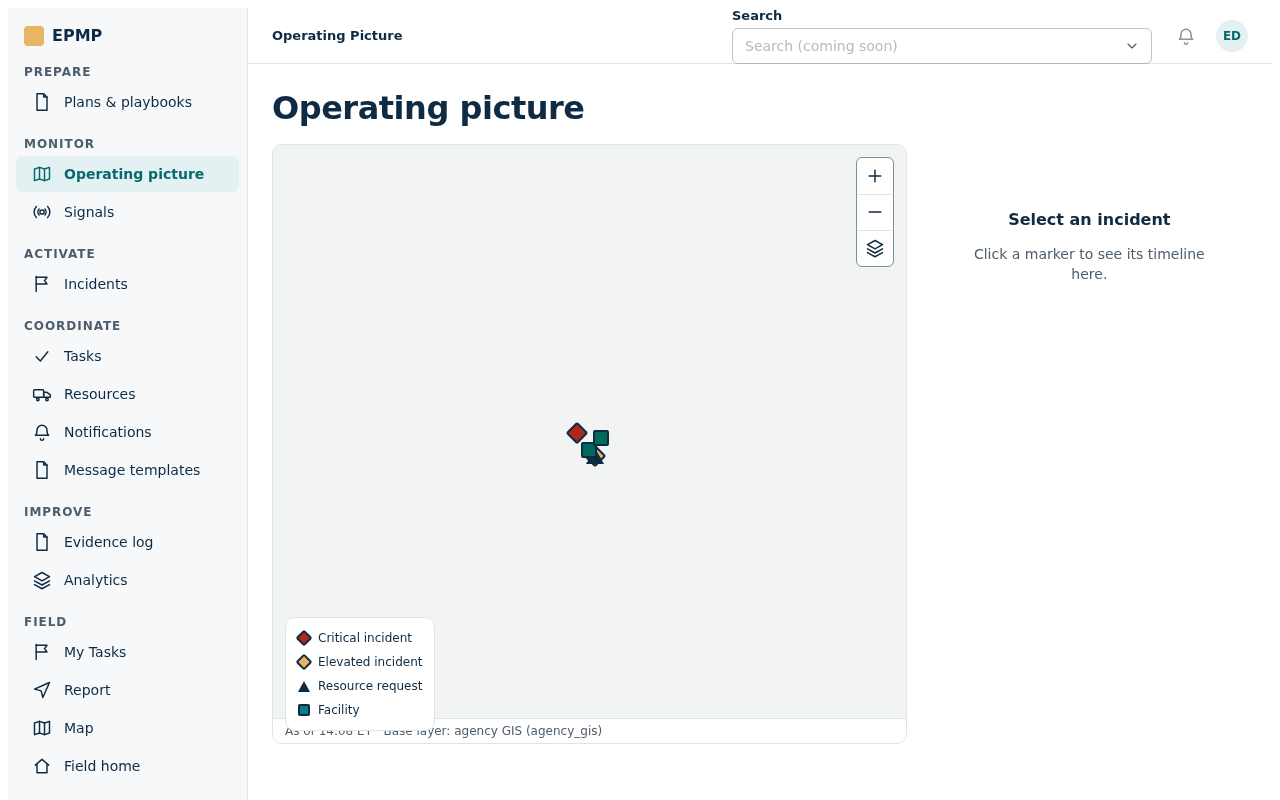
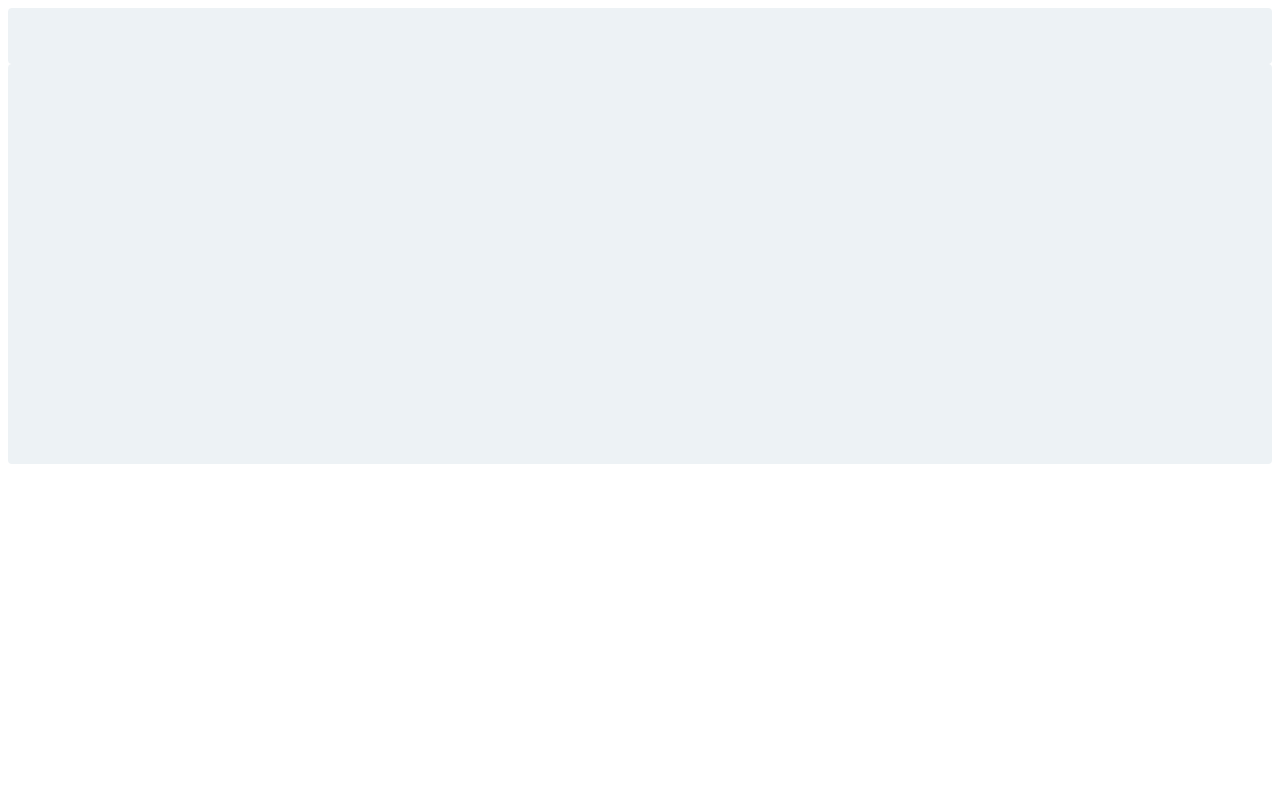
feat(phase-8): execution complete

diff --git a/.planning/phases/08-record-authority-sync-integrations/logs/attempt-5/verification.md b/.planning/phases/08-record-authority-sync-integrations/logs/attempt-5/verification.md
@@ -1,0 +1,3 @@
+# Verification Log
+
+No verification transcript available.

diff --git a/.planning/phases/08-record-authority-sync-integrations/logs/attempt-5/execution.md b/.planning/phases/08-record-authority-sync-integrations/logs/attempt-5/execution.md
@@ -1,0 +1,3 @@
+# Execution Log
+
+No execution transcript available.
